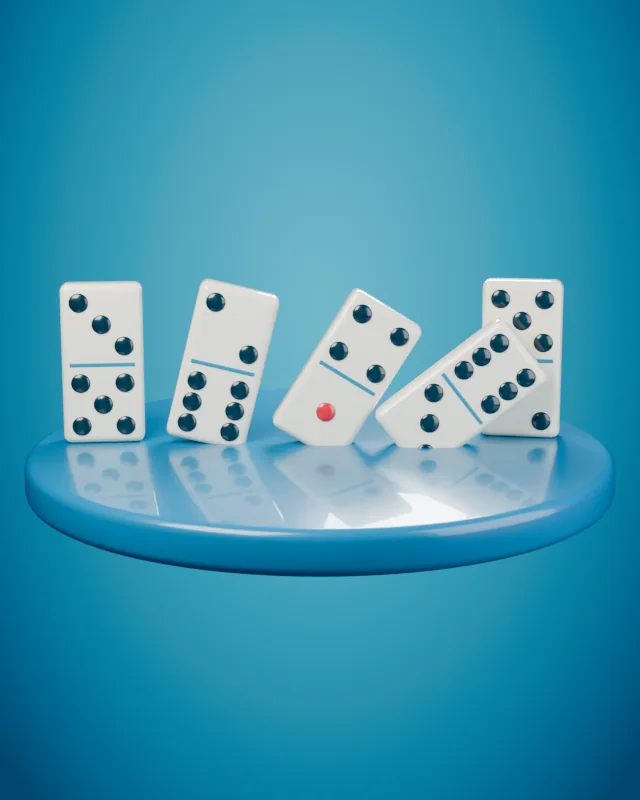
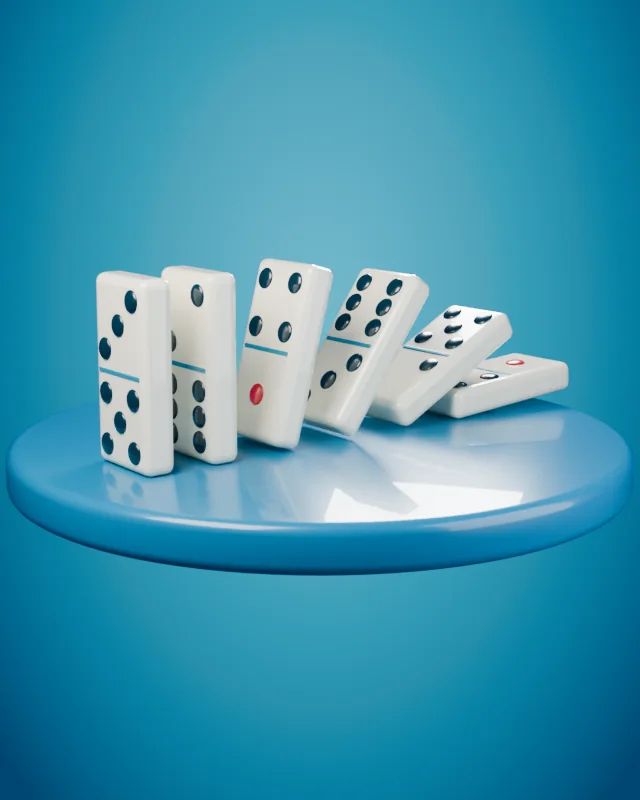
Covers: flags, mapquiz, polyglot, busjam, waldo; more PV covers WIP
Claude-Session: https://claude.ai/code/session_01MHknEQHwoRP7PDrNv3vHVE

Changed region(s): [[0.0, 0.3125, 1.0, 0.6875]]

diff --git a/tools/covers/sudoku.py b/tools/covers/sudoku.py
@@ -1,0 +1,48 @@
+import os, sys
+sys.path.insert(0, os.path.dirname(os.path.abspath(__file__)))
+from props import *
+
+new_scene('#6f7dff', '#12186e', samples=int(os.environ.get('S', 96)))
+T, GAP = 0.9, 0.1
+P = T + GAP
+cube = glossy('#f4f6ff', 0.25, 0.6, name='cube')
+cube2 = glossy('#cdd6ff', 0.25, 0.6, name='cube2')
+ink = glossy('#2a2fa8', 0.3, 0.6, name='ink')
+inkb = glossy('#d63a5a', 0.3, 0.6, name='inkr')
+green = glossy('#27d27a', 0.18, 0.9, name='grn')
+nums = [[5, 3, 7], [6, 1, 9], [8, 4, 2]]
+objs = []
+for r in range(3):
+    for c in range(3):
+        x = (c - 1) * P; z = (1 - r) * P
+        if (r, c) == (0, 2):
+            continue   # gap for the tile being placed
+        objs.append(box((T, T * 0.9, T), cube if (r + c) % 2 == 0 else cube2, loc=(x, 0, z), bevel=0.14))
+        objs.append(text(str(nums[r][c]), ink if (r + c) % 3 else inkb, size=0.62, extrude=0.05, loc=(x, -T * 0.45 - 0.005, z), rot=(90, 0, 0), bevel=0.012))
+objs.append(box((3 * P + 0.35, 0.5, 3 * P + 0.35), glossy('#3a45d6', 0.3, 0.6, name='slab'), loc=(0, 0.6, 0), bevel=0.22))
+# slot highlight
+objs.append(box((T + 0.05, 0.08, T + 0.05), glossy('#8fffc0', 0.3, 0.6, name='slot'), loc=(P, 0.3, P), bevel=0.08))
+parent(objs, loc=(0, 0, 1.85), rot=(-6, 12, -6))
+# floating tile being placed, glowing green with check mark
+tx = bpy.data.objects.new('t', None); bpy.context.scene.collection.objects.link(tx)
+parts = [box((T, T * 0.9, T), glossy('#ffd23a', 0.2, 0.8, name='gold_t'), bevel=0.14)]
+parts.append(text('4', glossy('#7a3a00', 0.3, 0.6, name='ink4'), size=0.62, extrude=0.05, loc=(0, -T * 0.45 - 0.005, 0), rot=(90, 0, 0), bevel=0.012))
+for p in parts: p.parent = tx
+tx.location = (1.55, -1.1, 3.45); tx.rotation_euler = (math.radians(-6), math.radians(12), math.radians(14)); tx.scale = (1.15,) * 3
+# glow ring + check bubble
+chk = cylinder(0.42, 0.14, green, loc=(2.5, -1.6, 4.4), rot=(90, 0, 0), bevel=0.05)
+w = glossy('#ffffff', 0.2, 0.8, name='chk')
+a = box((0.12, 0.1, 0.3), w, loc=(2.42, -1.72, 4.34), bevel=0.03, rot=(0, 0, 0)); a.rotation_euler = (0, math.radians(45), 0)
+b = box((0.12, 0.1, 0.55), w, loc=(2.59, -1.72, 4.42), bevel=0.03); b.rotation_euler = (0, math.radians(-45), 0)
+# pencil
+pen = []
+yel = glossy('#ffc21a', 0.25, 0.7, name='pen')
+pen.append(cylinder(0.14, 1.7, yel, bevel=0.02, seg=6))
+pen.append(cone(0.14, 0.04, 0.45, glossy('#f2c99a', 0.4, 0.3, name='wood'), loc=(0, 0, -1.07), seg=24))
+pen.append(cone(0.05, 0.0, 0.12, glossy('#222222', 0.3, 0.5, name='lead'), loc=(0, 0, -1.34), seg=16))
+pen.append(cylinder(0.15, 0.2, metal('#c8ccd8'), loc=(0, 0, 0.9), bevel=0.02))
+pen.append(cylinder(0.14, 0.2, glossy('#ff6a8a', 0.3, 0.6, name='eraser'), loc=(0, 0, 1.08), bevel=0.05))
+parent(pen, loc=(-2.1, -1.5, 0.95), rot=(0, 38, 8), scale=1.0)
+podium('#2a31b8', 3.2, 0.5, z=-0.35)
+fit(0.88, 0.0)
+render('sudoku')

diff --git a/tools/covers/domino.py b/tools/covers/domino.py
@@ -9,28 +9,24 @@ redpip = glossy('#e0303c', 0.25, 0.8, name='rp')
 W, D, Hh = 1.0, 0.36, 2.0
 PIPS = {1: [(0, 0)], 2: [(-1, 1), (1, -1)], 3: [(-1, 1), (0, 0), (1, -1)], 4: [(-1, -1), (1, -1), (-1, 1), (1, 1)],
         5: [(-1, -1), (1, -1), (0, 0), (-1, 1), (1, 1)], 6: [(-1, -1), (1, -1), (-1, 0), (1, 0), (-1, 1), (1, 1)]}
-def dom(top, bot, loc, tilt=0, yaw=0, big=1.0):
-    parts = [box((W, D, Hh), ivory, bevel=0.1)]
-    parts.append(box((W * 0.8, D + 0.02, 0.05), glossy('#2a8aa8', 0.3, 0.6, name='bar'), bevel=0.01))
-    for half, n in ((0.5, top), (-0.5, bot)):
+def dom(top, bot, loc, tilt=0, big=1.0):
+    parts = [box((D, W, Hh), ivory, bevel=0.1)]
+    parts.append(box((D + 0.02, W * 0.8, 0.05), glossy('#2a8aa8', 0.3, 0.6, name='bar'), bevel=0.01))
+    for half, n in ((1, top), (-1, bot)):
         for (px, pz) in PIPS[n]:
-            s = sphere(0.12, redpip if n == 1 else pip, (px * 0.27, -D / 2 - 0.0, half * Hh * 0.98 + pz * 0.27 - (0.5 if half > 0 else -0.5) * 0.0 + (0 if True else 0) - half * 0.52 * 0 ), scale=(1, 0.35, 1))
-            s.location.z = half * 1.0 + pz * 0.27 * 1.0
-            parts.append(s)
-    # tilt about the bottom-right edge
-    g = parent(parts, loc=(0, 0, Hh / 2))
+            parts.append(sphere(0.12, redpip if n == 1 else pip, (-D / 2, px * 0.27, half * 0.5 + pz * 0.27 * 1.0), scale=(0.35, 1, 1)))
+    g = parent(parts, loc=(-D / 2, 0, Hh / 2))
     pivot = bpy.data.objects.new('pv', None); bpy.context.scene.collection.objects.link(pivot)
     g.parent = pivot
-    g.location = (-W / 2, 0, Hh / 2)
     pivot.location = loc
-    pivot.rotation_euler = (0, math.radians(tilt), math.radians(yaw))
-    pivot.scale = (big,) * 3
+    pivot.rotation_euler = (0, math.radians(tilt), 0)
     return pivot
-x0 = -2.5
 pv = []
-for i, (t, bt, tilt) in enumerate([(3, 5, 0), (2, 6, 0), (4, 1, 14), (6, 3, 36), (5, 2, 66)]):
-    pv.append(dom(t, bt, (x0 + i * 1.18 + W / 2, 0, 0), tilt, 0))
-parent(pv, loc=(0, 0, 0), rot=(0, 0, -24))
-podium('#1a7fa8', 3.5, 0.5, z=0)
-fit(0.8, 0.1, 0.0)
+s0 = 0.78
+x0 = -2.4
+for i, (t, bt, tilt) in enumerate([(3, 5, 0), (2, 6, 0), (4, 1, 15), (6, 3, 36), (5, 2, 62), (1, 4, 86)]):
+    pv.append(dom(t, bt, (x0 + i * s0 + D / 2, 0, 0), tilt))
+parent(pv, loc=(0, 0, 0), rot=(0, 0, 32))
+podium('#1a7fa8', 3.1, 0.5, z=0)
+fit(0.98, 0.35, 0.0)
 render('domino')

diff --git a/tools/covers/water.py b/tools/covers/water.py
@@ -1,0 +1,55 @@
+import os, sys, math
+sys.path.insert(0, os.path.dirname(os.path.abspath(__file__)))
+from props import *
+
+new_scene('#b46bff', '#2c0a78', samples=int(os.environ.get('S', 128)))
+R, HT = 0.5, 3.0
+glass = glass_material((0.92, 0.96, 1.0), 1.06, 'tube')
+cols = {'O': '#ff8a1f', 'C': '#22d3ee', 'K': '#ff4fa0', 'G': '#4cd964', 'Y': '#ffd21f', 'B': '#3a6bff'}
+lm = {k: glossy(v, 0.1, 0.9, name='liq_' + k) for k, v in cols.items()}
+rim = glossy('#ffffff', 0.15, 0.9, name='rim')
+
+def tube(layers, h_unit=0.55):
+    """local: bottom on z=0, axis +z. layers bottom->top letters."""
+    o = []
+    o.append(sphere(R, glass, loc=(0, 0, R)))
+    o.append(cylinder(R, HT - R, glass, loc=(0, 0, R + (HT - R) / 2), bevel=0.0, smooth=False, seg=96))
+    o.append(torus(R, 0.07, rim, loc=(0, 0, HT)))
+    z = R
+    r = R - 0.07
+    for i, ch in enumerate(layers):
+        if i == 0:
+            o.append(sphere(r, lm[ch], loc=(0, 0, R), scale=(1, 1, 1)))
+            h = h_unit * 0.9
+            o.append(cylinder(r, h, lm[ch], loc=(0, 0, R + h / 2), bevel=0.0, smooth=False, seg=96))
+            z = R + h
+        else:
+            o.append(cylinder(r, h_unit, lm[ch], loc=(0, 0, z + h_unit / 2), bevel=0.0, smooth=False, seg=96))
+            z += h_unit
+    return o, z
+
+xs = [-2.5, -1.3, -0.1]
+sets = ['OCKG', 'KGOC', 'CK']
+tops = []
+for x, s in zip(xs, sets):
+    o, top = tube(s)
+    parent(o, loc=(x, 0, 0))
+    tops.append(top)
+# pouring tube: tilted, mouth above third tube
+ang = -112
+d = (math.sin(math.radians(ang)), 0, math.cos(math.radians(ang)))
+mouth = (0.05, 0.0, 4.15)
+base = (mouth[0] - d[0] * HT, 0, mouth[2] - d[2] * HT)
+o, _ = tube('GO', 0.5)
+parent(o, loc=base, rot=(0, ang, 0))
+# stream from mouth down to liquid surface of tube 3
+sz = tops[2]
+sx = -0.1
+cyl = cylinder(0.07, mouth[2] - sz - 0.05, lm['O'], loc=(sx, 0, (mouth[2] - 0.1 + sz) / 2), bevel=0.0, seg=24, smooth=False)
+sphere(0.16, lm['O'], loc=(sx, 0, sz + 0.06), scale=(1.5, 1.5, 0.45))
+# fourth standing tube at far right
+o, _ = tube('BYG')
+parent(o, loc=(1.35, 0, 0))
+podium('#7a2fe0', 3.5, 0.5, z=-0.0)
+fit(0.78, -0.5)
+render('water')
